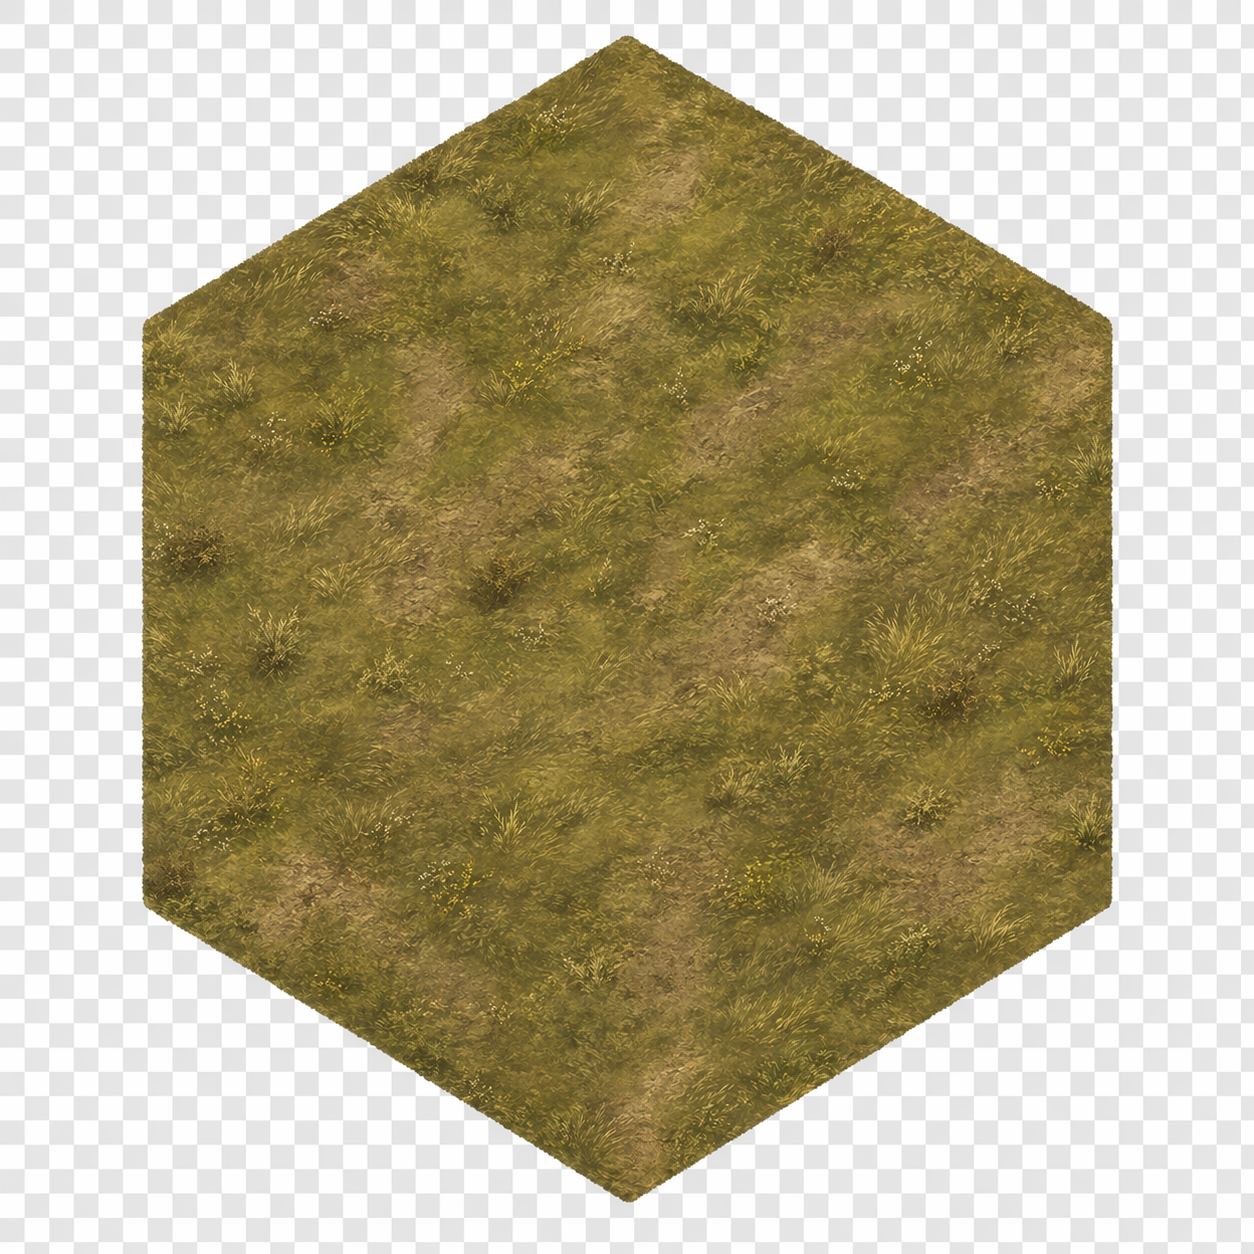
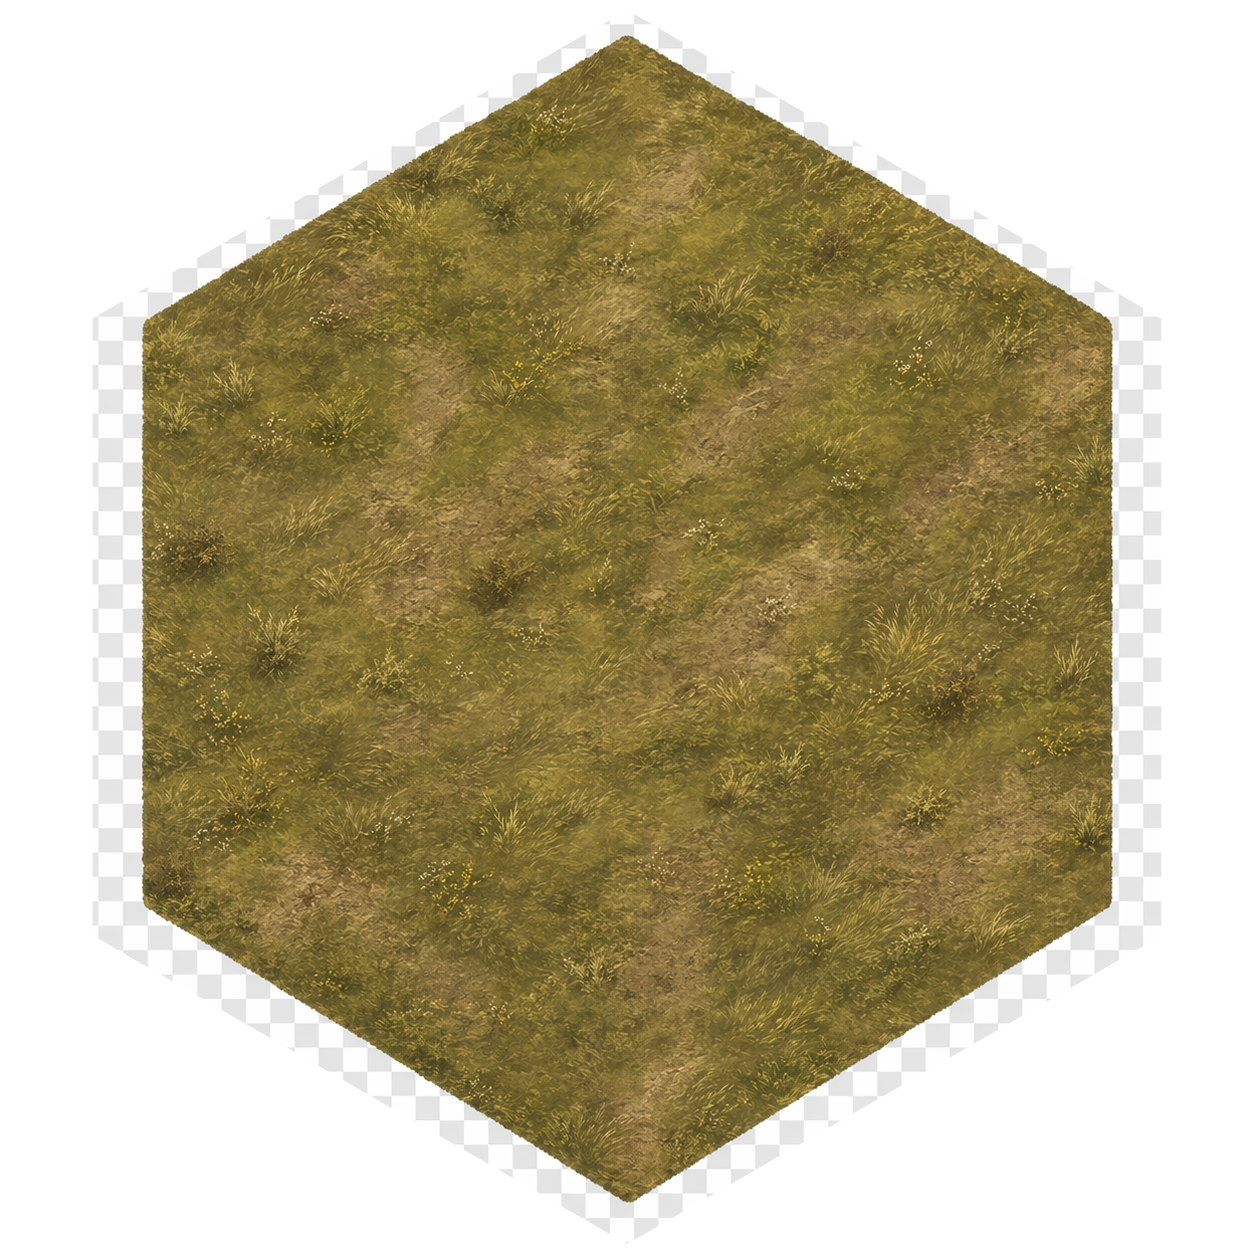
fix(world): restore terrain background rendering

Changed region(s): [[0.0, 0.0, 1.0, 1.0]]

diff --git a/src/ui/world/renderSceneCache.ts b/src/ui/world/renderSceneCache.ts
@@ -10,23 +10,19 @@ import type { CloudRenderInput } from './renderSceneEnvironment';
 import { WorldIcons } from './worldIcons';
 import {
   createGraphicsPool,
-  createMaskedSpritePool,
   createShadowedSprite,
   createShadowedSpritePool,
   createSpritePool,
   createTextPool,
   finishGraphicsPool,
-  finishMaskedSpritePool,
   finishShadowedSpritePool,
   finishSpritePool,
   finishTextPool,
   resetGraphicsPool,
-  resetMaskedSpritePool,
   resetShadowedSpritePool,
   resetSpritePool,
   resetTextPool,
   type GraphicsPool,
-  type MaskedSpritePool,
   type ShadowedSpriteEntry,
   type ShadowedSpritePool,
   type SpritePool,
@@ -73,7 +69,7 @@ export interface SceneCache {
   atmosphereShaftGraphics: GraphicsPool;
   atmosphereCelestialGraphics: GraphicsPool;
   worldGroundGraphics: GraphicsPool;
-  worldTerrainSprites: MaskedSpritePool;
+  worldTerrainSprites: SpritePool;
   worldStaticDetailGraphics: GraphicsPool;
   worldBorderGraphics: GraphicsPool;
   worldInteractionGraphics: GraphicsPool;
@@ -183,7 +179,7 @@ export function getSceneCache(app: Application) {
     atmosphereShaftGraphics: createGraphicsPool(atmosphereShafts),
     atmosphereCelestialGraphics: createGraphicsPool(atmosphereCelestials),
     worldGroundGraphics: createGraphicsPool(worldGroundFill),
-    worldTerrainSprites: createMaskedSpritePool(worldTerrain),
+    worldTerrainSprites: createSpritePool(worldTerrain),
     worldStaticDetailGraphics: createGraphicsPool(worldStaticDetail),
     worldBorderGraphics: createGraphicsPool(worldBorders),
     worldInteractionGraphics: createGraphicsPool(worldInteraction),
@@ -242,7 +238,7 @@ export function completeAnimatedSceneRender(scene: SceneCache) {
 
 export function beginStaticSceneRender(scene: SceneCache) {
   resetGraphicsPool(scene.worldGroundGraphics);
-  resetMaskedSpritePool(scene.worldTerrainSprites);
+  resetSpritePool(scene.worldTerrainSprites);
   resetGraphicsPool(scene.worldStaticDetailGraphics);
   resetGraphicsPool(scene.worldBorderGraphics);
   resetSpritePool(scene.worldStaticDetailSprites);
@@ -254,7 +250,7 @@ export function beginStaticSceneRender(scene: SceneCache) {
 
 export function completeStaticSceneRender(scene: SceneCache) {
   finishGraphicsPool(scene.worldGroundGraphics);
-  finishMaskedSpritePool(scene.worldTerrainSprites);
+  finishSpritePool(scene.worldTerrainSprites);
   finishGraphicsPool(scene.worldStaticDetailGraphics);
   finishGraphicsPool(scene.worldBorderGraphics);
   finishSpritePool(scene.worldStaticDetailSprites);

diff --git a/src/app/App/world/pixiWorldRenderLoop.ts b/src/app/App/world/pixiWorldRenderLoop.ts
@@ -2,6 +2,7 @@ import type { MutableRefObject } from 'react';
 import type { Application } from 'pixi.js';
 import * as stateModule from '../../../game/state';
 import { getWorldTimeMinutesFromTimestamp } from '../../../game/worldTime';
+import { getWorldIconTextureVersion } from '../../../ui/world/worldIcons';
 import { sameCoord } from '../usePixiWorldHover';
 
 type RenderScene = typeof import('../../../ui/world/renderScene').renderScene;
@@ -14,6 +15,7 @@ export interface WorldRenderSnapshot {
   hoveredSafePath: stateModule.HexCoord[] | null;
   animationBucket: number;
   invalidationToken: number;
+  iconTextureVersion: number;
 }
 
 const WORLD_ANIMATION_FPS = 30;
@@ -28,6 +30,7 @@ export function createWorldRenderSnapshot(): WorldRenderSnapshot {
     hoveredSafePath: null,
     animationBucket: -1,
     invalidationToken: 0,
+    iconTextureVersion: getWorldIconTextureVersion(),
   };
 }
 
@@ -72,12 +75,14 @@ export function createWorldRenderFrame({
     const animationBucket = Math.floor(animationMs / WORLD_ANIMATION_FRAME_MS);
     const lastRenderSnapshot = lastRenderSnapshotRef.current;
     const invalidationToken = renderInvalidationRef.current;
+    const iconTextureVersion = getWorldIconTextureVersion();
 
     if (
       lastRenderSnapshot.game === currentGame &&
       lastRenderSnapshot.visibleTiles === currentVisibleTiles &&
       lastRenderSnapshot.animationBucket === animationBucket &&
       lastRenderSnapshot.invalidationToken === invalidationToken &&
+      lastRenderSnapshot.iconTextureVersion === iconTextureVersion &&
       sameCoord(lastRenderSnapshot.selected, currentSelected) &&
       sameCoord(lastRenderSnapshot.hoveredMove, currentHoveredMove) &&
       sameCoordList(lastRenderSnapshot.hoveredSafePath, currentHoveredSafePath)
@@ -93,6 +98,7 @@ export function createWorldRenderFrame({
       hoveredSafePath: currentHoveredSafePath,
       animationBucket,
       invalidationToken,
+      iconTextureVersion,
     };
     renderScene(
       app,

diff --git a/src/app/App/world/pixiWorldRenderLoop.test.ts b/src/app/App/world/pixiWorldRenderLoop.test.ts
@@ -1,0 +1,61 @@
+import { vi } from 'vitest';
+
+const { getWorldIconTextureVersion, setWorldIconTextureVersion } = vi.hoisted(
+  () => {
+    let iconTextureVersion = 0;
+
+    return {
+      getWorldIconTextureVersion: () => iconTextureVersion,
+      setWorldIconTextureVersion: (nextVersion: number) => {
+        iconTextureVersion = nextVersion;
+      },
+    };
+  },
+);
+
+vi.mock('../../../ui/world/worldIcons', () => ({
+  getWorldIconTextureVersion,
+}));
+
+import {
+  createWorldRenderFrame,
+  createWorldRenderSnapshot,
+} from './pixiWorldRenderLoop';
+
+describe('pixiWorldRenderLoop', () => {
+  it('re-renders when world icon textures finish loading after the first frame', () => {
+    const performanceNowSpy = vi.spyOn(performance, 'now').mockReturnValue(0);
+    const renderScene = vi.fn();
+    const game = { player: { coord: { q: 0, r: 0 } } };
+    const visibleTiles = [{ coord: { q: 0, r: 0 }, terrain: 'plains' }];
+    const selected = { q: 0, r: 0 };
+    const hoveredMove = null;
+    const hoveredSafePath = null;
+    const renderFrame = createWorldRenderFrame({
+      app: {} as never,
+      renderScene,
+      gameRef: { current: game } as never,
+      visibleTilesRef: { current: visibleTiles } as never,
+      selectedRef: { current: selected } as never,
+      hoveredMoveRef: { current: hoveredMove },
+      hoveredSafePathRef: { current: hoveredSafePath },
+      pausedRef: { current: false },
+      pausedAnimationMsRef: { current: null },
+      worldTimeMsRef: { current: 0 },
+      renderInvalidationRef: { current: 0 },
+      lastRenderSnapshotRef: { current: createWorldRenderSnapshot() },
+    });
+
+    renderFrame();
+    renderFrame();
+
+    expect(renderScene).toHaveBeenCalledTimes(1);
+
+    setWorldIconTextureVersion(1);
+    renderFrame();
+
+    expect(renderScene).toHaveBeenCalledTimes(2);
+
+    performanceNowSpy.mockRestore();
+  });
+});

diff --git a/scripts/terrain-assets.test.ts b/scripts/terrain-assets.test.ts
@@ -1,0 +1,38 @@
+import sharp from 'sharp';
+import { fileURLToPath } from 'node:url';
+
+const TERRAIN_ASSET_PATHS = [
+  '../src/assets/images/terrain/plains-v2.png',
+  '../src/assets/images/terrain/forest-v2.png',
+  '../src/assets/images/terrain/rift-v2.png',
+  '../src/assets/images/terrain/mountain-v2.png',
+  '../src/assets/images/terrain/desert-v2.png',
+  '../src/assets/images/terrain/swamp-v2.png',
+].map((relativePath) => new URL(relativePath, import.meta.url));
+
+describe('terrain hex assets', () => {
+  it('keep square corners transparent while preserving opaque terrain art', async () => {
+    for (const assetUrl of TERRAIN_ASSET_PATHS) {
+      const { data, info } = await sharp(fileURLToPath(assetUrl))
+        .ensureAlpha()
+        .raw()
+        .toBuffer({ resolveWithObject: true });
+      const cornerAlphaIndexes = [
+        3,
+        (info.width - 1) * info.channels + 3,
+        (info.height - 1) * info.width * info.channels + 3,
+        (info.height * info.width - 1) * info.channels + 3,
+      ];
+      const centerAlphaIndex =
+        (Math.floor(info.height / 2) * info.width +
+          Math.floor(info.width / 2)) *
+          info.channels +
+        3;
+
+      cornerAlphaIndexes.forEach((alphaIndex) => {
+        expect(data[alphaIndex]).toBe(0);
+      });
+      expect(data[centerAlphaIndex]).toBeGreaterThan(0);
+    }
+  });
+});

diff --git a/src/ui/world/renderScene.ts b/src/ui/world/renderScene.ts
@@ -48,11 +48,11 @@ import {
   tileStyle,
 } from './renderSceneEnvironment';
 import {
-  configureMaskedSprite,
+  configureSprite,
   configureShadowedSprite,
   takeGraphics,
-  takeMaskedSprite,
   takeShadowedSprite,
+  takeSprite,
   takeText,
 } from './renderScenePools';
 import {
@@ -112,7 +112,6 @@ export function renderScene(
   const worldBossIconSize = hexSize * 3.4;
   const playerIconSize = hexSize * 1.58;
   const terrainArtSize = hexSize * 2;
-  const terrainArtMask = makeHex(0, 0, Math.max(1, hexSize - 0.5));
 
   if (WORLD_MAP_FISHEYE_ENABLED) {
     scene.worldMapFilterArea.width = app.screen.width;
@@ -254,18 +253,17 @@ export function renderScene(
       }
 
       if (shouldRenderStatic) {
-        const terrainSprite = takeMaskedSprite(
+        const terrainSprite = takeSprite(
           scene.worldTerrainSprites,
           terrainArtFor(tile.terrain),
         );
-        configureMaskedSprite(
+        configureSprite(
           terrainSprite,
           0xffffff,
           terrainArtSize,
           terrainArtSize,
           emphasized ? 0.84 : 0.76,
           point,
-          terrainArtMask,
         );
 
         const enemies = getEnemiesAt(state, tile.coord);

diff --git a/src/app/App/usePixiWorld.ts b/src/app/App/usePixiWorld.ts
@@ -310,5 +310,6 @@ function createInitialWorldRenderSnapshot(): WorldRenderSnapshot {
     hoveredSafePath: null,
     animationBucket: -1,
     invalidationToken: 0,
+    iconTextureVersion: -1,
   };
 }

diff --git a/docs/specs/reference/technical-solutions/pixi-rendering-solution/spec.md b/docs/specs/reference/technical-solutions/pixi-rendering-solution/spec.md
@@ -39,6 +39,8 @@ This spec covers the main world-render loop, scene decomposition, and render-per
 - The world bootstrap blocks only on the icon textures needed for the initial visible viewport, while the remaining icon catalog warms in background idle slices after the first canvas paint.
 - Shared world-icon texture caches discard destroyed textures before reuse, so Pixi app remounts such as HMR do not hand the next world scene a texture whose source has already been destroyed.
 - If a newly needed icon texture has not finished loading when a sprite pool requests it, the pool uses a transparent placeholder texture for that frame and rerenders when the real texture arrives.
+- Terrain background redraw invalidation also keys off the shared world-icon texture version, so newly loaded terrain art repaints the cached static layer without waiting for unrelated hover or gameplay changes.
+- Terrain background PNG assets ship as transparent pointy-top hex cutouts, so the static world layer can draw them through the regular sprite pool without a runtime mask path.
 - The Pixi canvas uses density-aware sizing so browser zoom and high-DPI displays keep the world viewport fitted to CSS pixels while renderer resolution tracks `window.devicePixelRatio` changes on resize within the current graphics preset cap.
 - Persisted settings now hydrate both Pixi renderer initialization flags and a preset-derived renderer density cap through a dedicated plain `localStorage` `settings` payload that is read before the initial game and Pixi setup; those init-time flags require a reload before they affect an already-running canvas.
 - Hover-analysis caching now invalidates from gameplay-state versions that materially affect interaction resolution rather than from every broad `tiles` or `enemies` container identity change.
